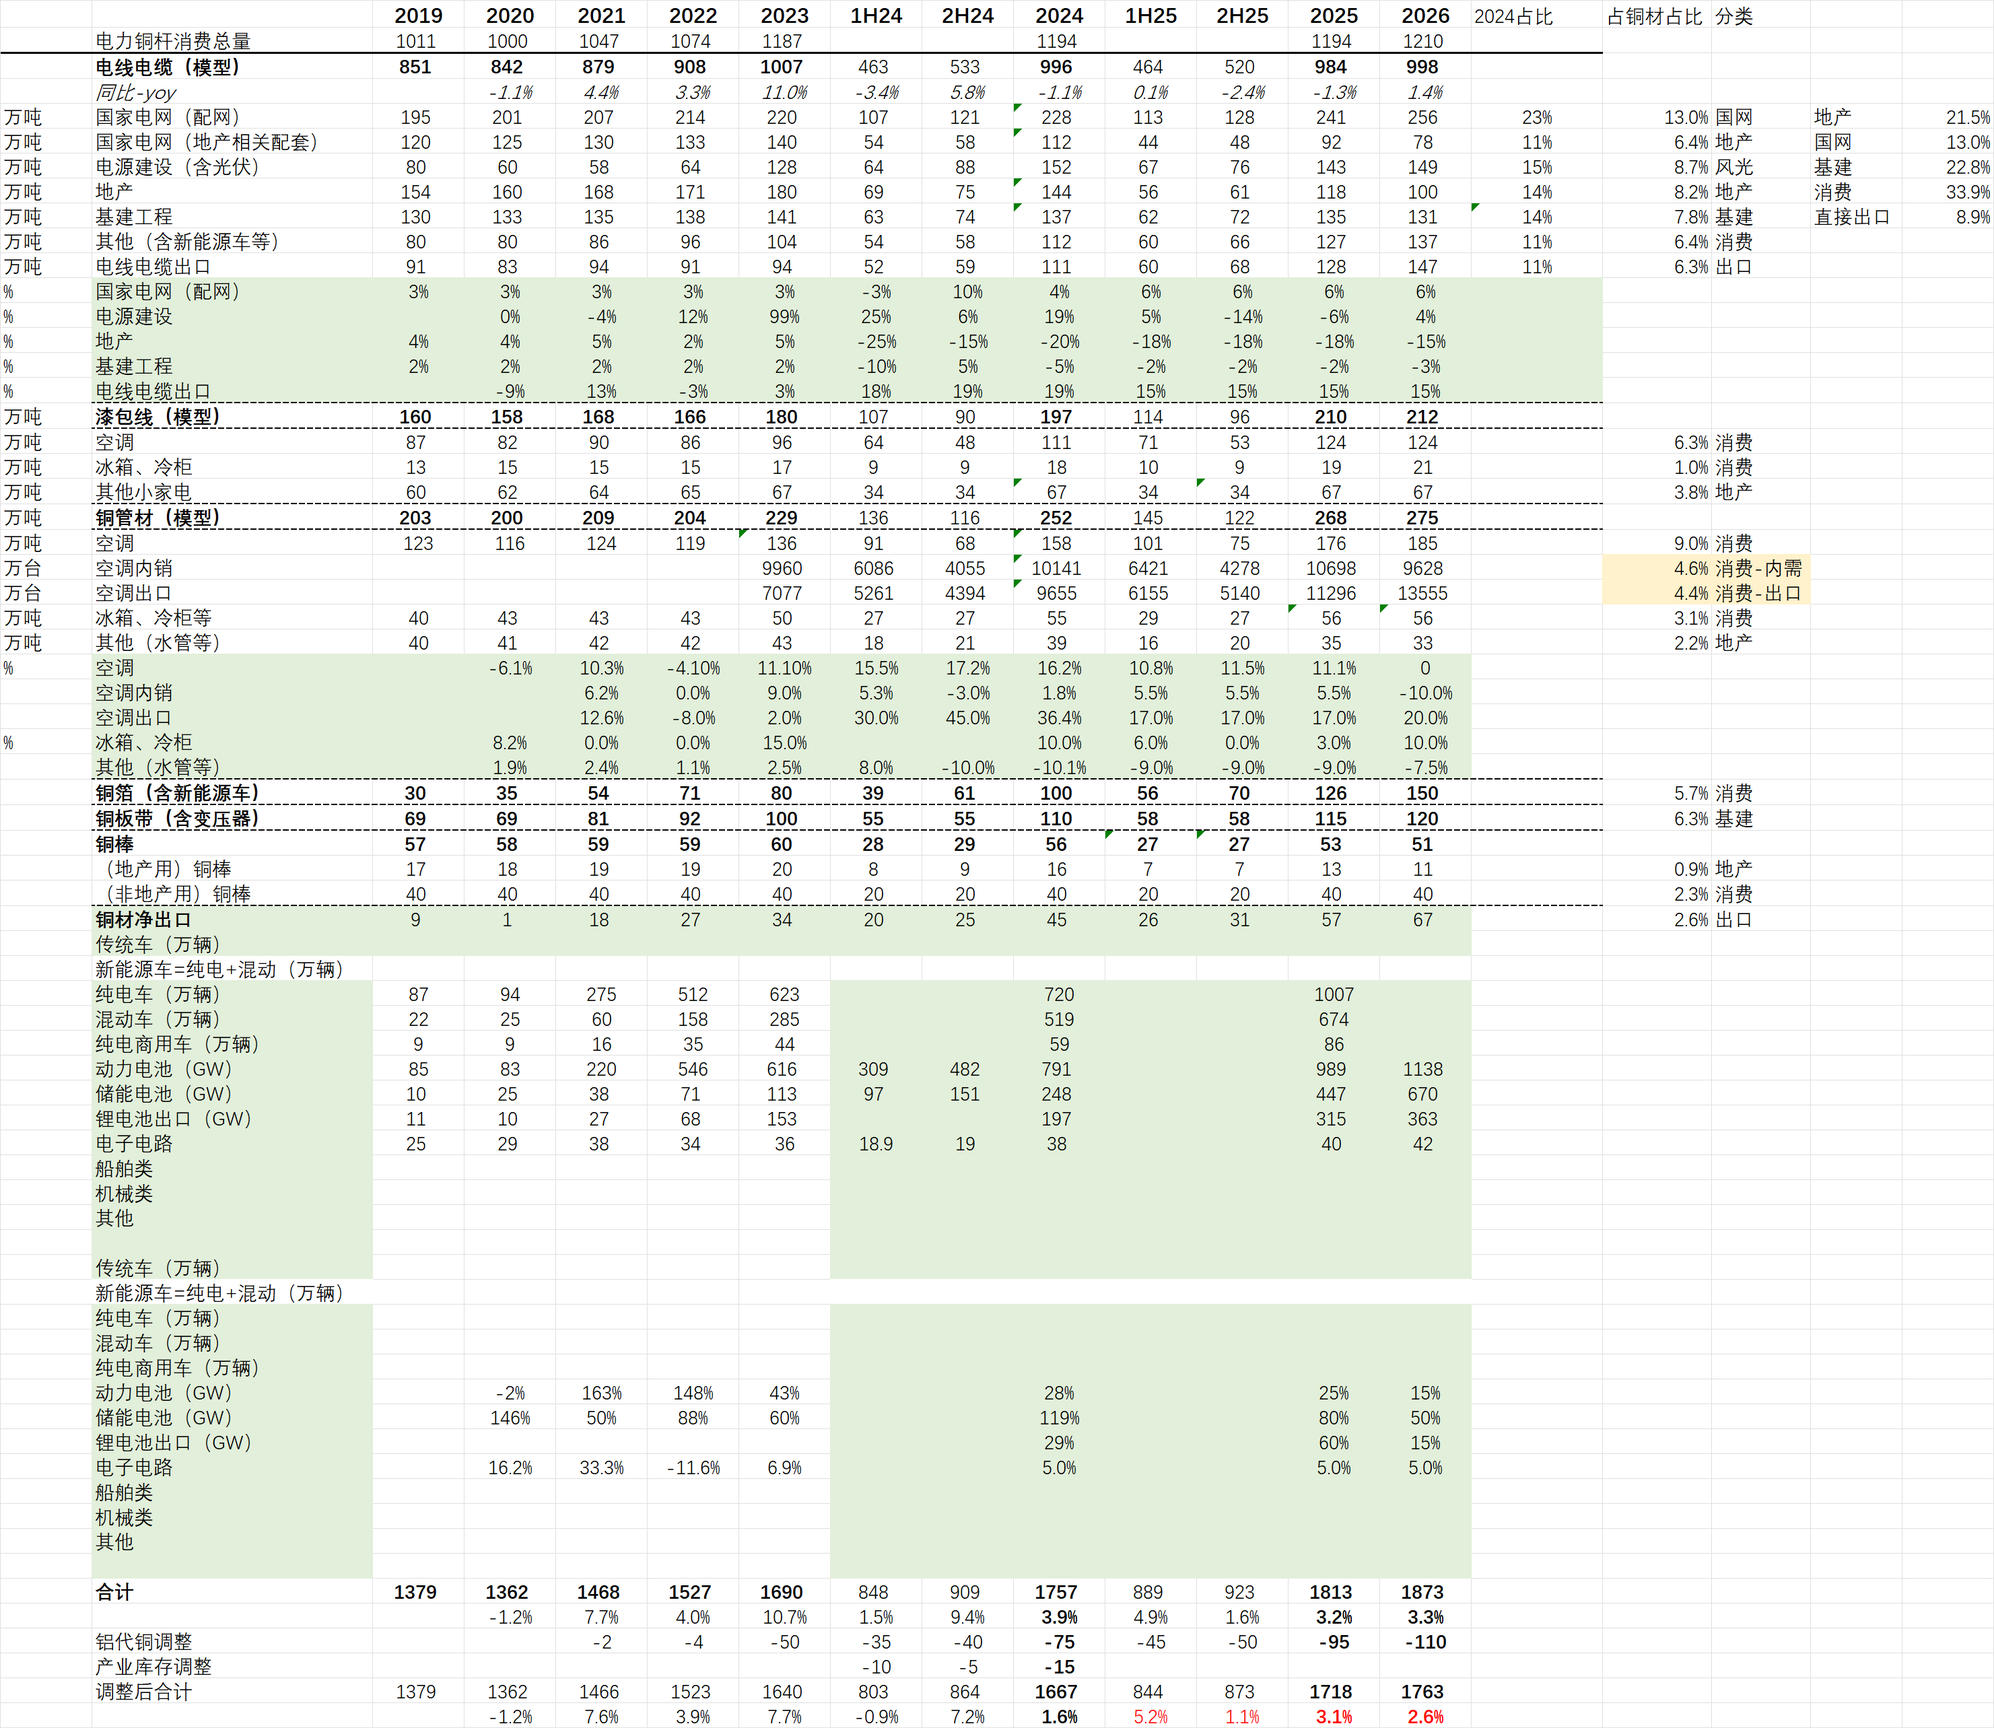
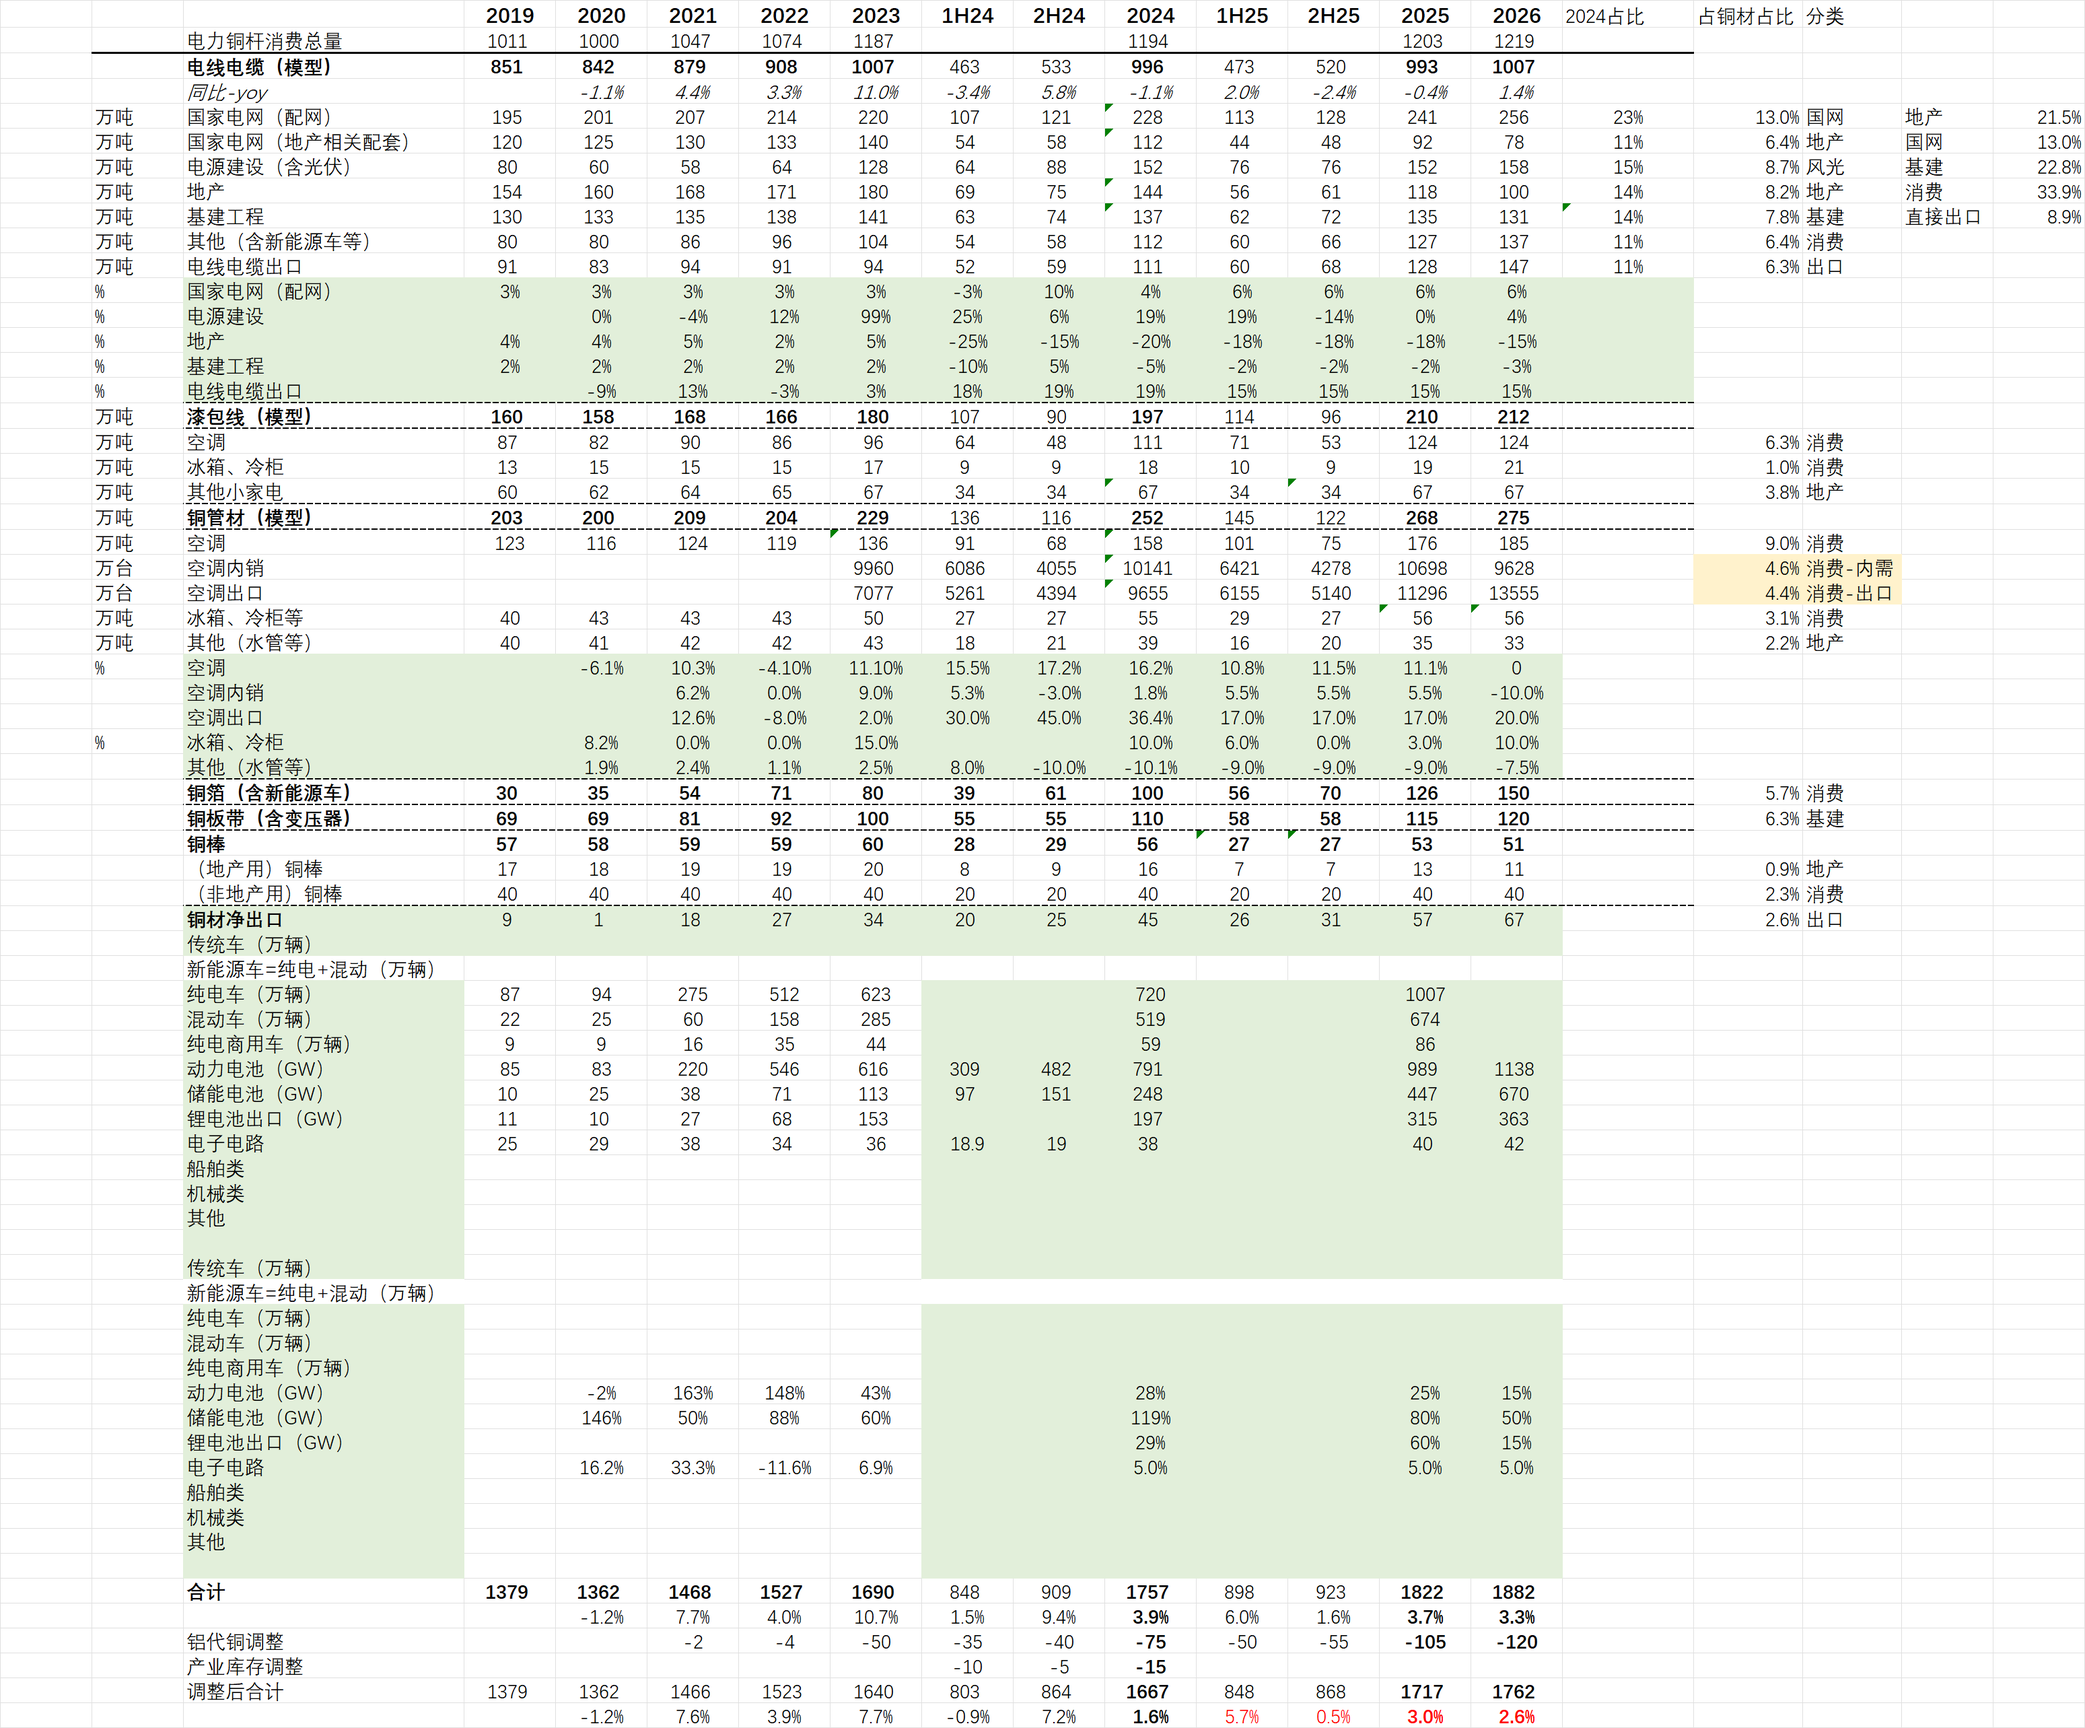
yfwu-main 2025-6-24:15:10:2

diff --git a/铜市场分析20250622.md b/铜市场分析20250622.md
@@ -50,7 +50,8 @@
 国外消费平均上下半年环比持平，但是不同年份差异大。
 ![[海外铜元素表消季节性.png]]
 
-
+中国铜下半年增速明显下降，主要因为光伏。
+![[铜终端模型.png]]
 
 # 高频数据跟踪
 
